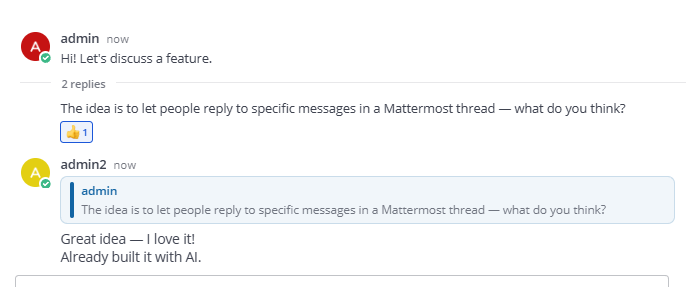
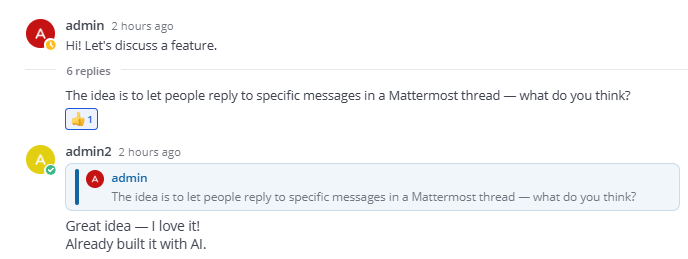
Update quoted-reply-thread image and refactor getDisplayName function to remove nickname handling in posts utility. Simplify user display name retrieval logic.

diff --git a/webapp/src/utils/posts.ts b/webapp/src/utils/posts.ts
@@ -29,10 +29,6 @@ export function getDisplayName(user?: UserProfile): string {
         return 'Unknown user';
     }
 
-    if (user.nickname) {
-        return user.nickname;
-    }
-
     const fullName = [user.first_name, user.last_name].filter(Boolean).join(' ').trim();
     if (fullName) {
         return fullName;
